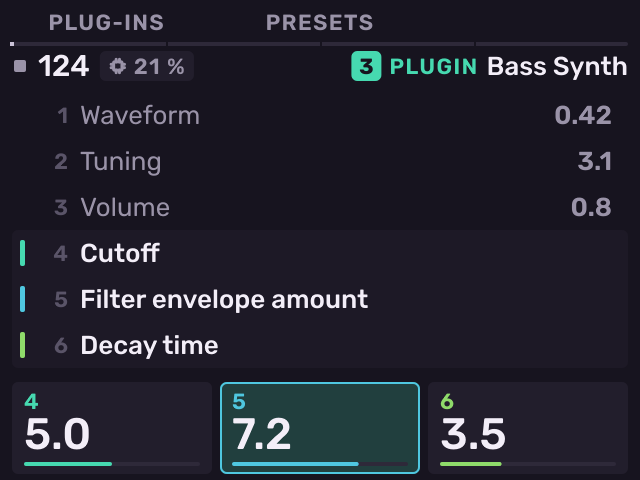
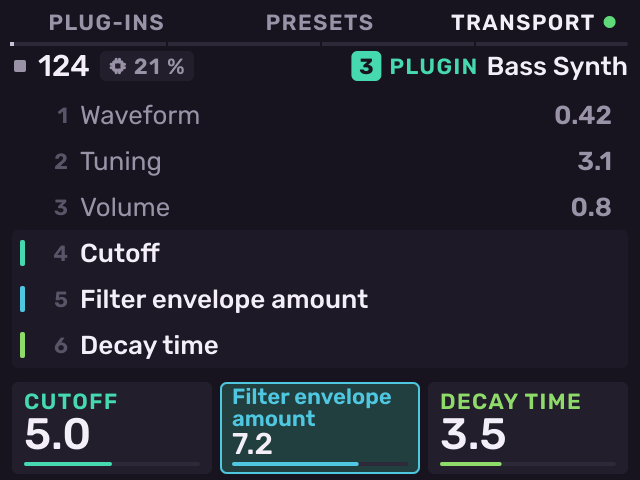
feat(melodee): TRANSPORT on a plug-in (B3 on a PLUGIN track's Edit, a card on a plug-in effect's sheet) keeps Play and Stop from it, so its own sequencer stays still

diff --git a/src/melodee/pages/chain_page.cpp b/src/melodee/pages/chain_page.cpp
@@ -24,14 +24,18 @@
 namespace melodee {
 namespace {
 using namespace ui;
-// A device's sheet: Presets only on a plug-in that has some (its programs, PRESETS).
-enum class Action : uint8_t { Change, Presets, Bypass, Left, Right, Remove };
-using Actions = std::array<Action, 6>;
+// A device's sheet: Presets only on a plug-in that has some (its programs, PRESETS); Transport on a plug-in, after
+// Bypass (whether it hears Play and Stop).
+enum class Action : uint8_t { Change, Presets, Bypass, Transport, Left, Right, Remove };
+using Actions = std::array<Action, 7>;
 unsigned device_actions(const UiState& ui, const EffectSlot& slot, Actions& out) {
     unsigned n = 0;
+    bool plugin = slot.kind == plugin_effect_kind;
     out[n++] = Action::Change;
-    if (slot.kind == plugin_effect_kind && ui.plugin_panel.entry == unsigned(slot.params[0]) && ui.plugin_panel.programs > 0) out[n++] = Action::Presets;
-    for (Action a : {Action::Bypass, Action::Left, Action::Right, Action::Remove}) out[n++] = a;
+    if (plugin && ui.plugin_panel.entry == unsigned(slot.params[0]) && ui.plugin_panel.programs > 0) out[n++] = Action::Presets;
+    out[n++] = Action::Bypass;
+    if (plugin) out[n++] = Action::Transport;
+    for (Action a : {Action::Left, Action::Right, Action::Remove}) out[n++] = a;
     return n;
 }
 
@@ -158,6 +162,11 @@ void draw(Paint& p, const Snapshot& s) {
             case Action::Change: m.items[r] = card_item(Icon::Swap, "CHANGE", ""); break;
             case Action::Presets: m.items[r] = card_item(Icon::Star, "PRESETS", juce::String(int(s.ui.plugin_panel.programs))); break;
             case Action::Bypass: m.items[r] = card_item(Icon::Power, "BYPASS", slot.bypass ? "ON" : "OFF", bool(slot.bypass)); break;
+            case Action::Transport: {
+                bool on = unsigned(slot.params[0]) < max_plugins && s.project.plugins[unsigned(slot.params[0])].transport;
+                m.items[r] = card_item(Icon::Play, "TRANSPORT", on ? "ON" : "OFF", on);
+                break;
+            }
             case Action::Left: m.items[r] = card_item(Icon::ArrowLeft, "MOVE LEFT", "", false, false, cursor == 0); break;
             case Action::Right: m.items[r] = card_item(Icon::ArrowRight, "MOVE RIGHT", "", false, false, cursor + 1 >= count); break;
             case Action::Remove: m.items[r] = card_item(Icon::Trash, "REMOVE", "", false, true); break;
@@ -230,6 +239,7 @@ void push(Context& c) {
         case Action::Change: ui.picker_open = true; ui.picker_items = false; ui.picker_replaces = true; break;
         case Action::Presets: ui.sheet_open = false; c.open_plugin_presets(unsigned(chain.slots[cursor].params[0])); return;
         case Action::Bypass: c.toggle_bypass(n, cursor); return; // stays open to see it change
+        case Action::Transport: c.toggle_plugin_transport(unsigned(chain.slots[cursor].params[0])); return; // and this
         case Action::Left: c.move_effect(n, cursor, -1); if (cursor) ui.fx_cursor[at] = uint8_t(cursor - 1); break;
         case Action::Right: c.move_effect(n, cursor, 1); if (cursor + 1 < chain.count()) ui.fx_cursor[at] = uint8_t(cursor + 1); break;
         case Action::Remove: c.set_effect(n, cursor, EffectKind::None); break;

diff --git a/src/melodee/plugin/plugin_rack.cpp b/src/melodee/plugin/plugin_rack.cpp
@@ -327,6 +327,7 @@ public:
     std::vector<int> shown;              // parameter indices the pages show, in order
     bool qlinks = false;
     bool nam = false;                    // Neural Amp Modeler: shorter card names (plugin/nam.h)
+    std::atomic<bool> transport {true};  // TRANSPORT: it hears Play and Stop (off: always stopped), set by the rack
     std::atomic<float> load {0};         // share of a block's time
     std::string stage;                   // the RAM copy it runs from, removed with it
     PluginFormat format = PluginFormat::Vst3;
@@ -341,6 +342,7 @@ private:
     void follow_clock(unsigned frames) {
         if (warming) { now = EffectClock {}; quarters = 0; per_frame = 0; return; }
         now = *effect_clock_now;
+        if (!transport.load(std::memory_order_relaxed)) now.playing = false; // TRANSPORT off: the place, never Play
         if (now.block != block_seen) { block_seen = now.block; into_block = 0; }
         double quarter = std::max(now.quarter, 1.0);
         quarters = now.playing ? now.song + into_block / quarter : now.song;
@@ -435,6 +437,8 @@ void PluginRack::sync(const Project& project, uint32_t asleep) {
         std::lock_guard<std::mutex> held(lock);
         for (unsigned e = 0; e < max_plugins; ++e) {
             auto& entry = entries[e];
+            entry.transport = project.plugins[e].transport;
+            if (entry.live) entry.live->transport.store(entry.transport, std::memory_order_relaxed);
             std::string want = project.plugins[e].used() && referenced(project, e) ? project.plugins[e].path : "";
             int32_t id = want.empty() ? 0 : project.plugins[e].id;
             // Freeze plan F2d: used only by deep-frozen tracks, it sleeps (plugin/plugin_sleep.h).
@@ -1039,6 +1043,7 @@ void PluginRack::load(const Job& job) {
         else {
             handles.push_back(std::move(handle));
             if (entry.live) retiring.push_back(entry.live);
+            raw->transport.store(entry.transport, std::memory_order_relaxed); // before the audio thread first runs it
             entry.live = raw;
             entry.status = PluginStatus::Ready;
             entry.file.instrument = is_instrument ? 1 : 0;

diff --git a/src/melodee/pages/edit_page.cpp b/src/melodee/pages/edit_page.cpp
@@ -153,14 +153,17 @@ void draw(Paint& p, const Snapshot& s) {
     const auto& info = engine_info(s.track().engine);
     auto c = colour_of(s);
     Header h = header_of(s);
-    if (s.track().engine == EngineKind::Plugin) { // the plug-in's own parameters, three at a time; B1 another from the card, B2 its presets
+    if (s.track().engine == EngineKind::Plugin) { // the plug-in's own parameters, three at a time; B1 another from the card, B2 its presets,
+                                                  // B3 TRANSPORT (it hears Play and Stop: its LED)
         const auto& panel = s.ui.plugin_panel;
         bool ours = panel.entry == s.track().plugin;
         if (ours && panel.status == PluginStatus::Ready) // the share of each audio block it takes
             h.left.push_back(pill(Icon::Chip, juce::String(panel.load / 10) + " %", panel.load > 700 ? colour::amber : colour::mid));
         h.right.push_back(tag_of(s, s.ui.track));
-        bool presets = ours && panel.programs > 0;
-        frame(p, s, {{"PLUG-INS", presets ? "PRESETS" : "", ""}, -1, c}, h);
+        bool presets = ours && panel.programs > 0, chosen = s.track().plugin < max_plugins;
+        SoftKeys keys {{"PLUG-INS", presets ? "PRESETS" : "", chosen ? "TRANSPORT" : ""}, -1, c};
+        if (chosen) { keys.toggles = 4; keys.lit = s.project.plugins[s.track().plugin].transport ? 4 : 0; }
+        frame(p, s, keys, h);
         if (s.track().plugin >= max_plugins) { // none yet: B1 picks one from the card
             icon(p, Icon::Plug, zone::width / 2.0f - 14, zone::picture_y + 40, 28, colour::dim, 1.4f);
             p.text("NONE", 0, zone::picture_y + 76, zone::width, 14, caps_text(colour::dim), juce::Justification::centred);
@@ -210,6 +213,7 @@ void soft(Context& c, int key) {
     if (c.track().engine == EngineKind::Plugin) {
         if (key == 0) c.open_plugin_picker(UiState::PluginTarget::Instrument);
         if (key == 1 && c.ui.plugin_panel.entry == c.track().plugin && c.ui.plugin_panel.programs > 0) c.open_plugin_presets(c.track().plugin);
+        if (key == 2) c.toggle_plugin_transport(c.track().plugin);
         return;
     }
     unsigned count = page_count(c), t = c.ui.track;

diff --git a/tests/melodee.cpp b/tests/melodee.cpp
@@ -8974,7 +8974,7 @@ void synths_as_plugins() {
 
 void plugins() {
     // The file: PLGT makes the track a PLUGIN track (TRAK says None, as older builds should see it), PLUG keeps
-    // each entry's path and state.
+    // each entry's path and state, and TRANSPORT (on unless turned off; a file from before it: on).
     {
         auto project = std::make_unique<Project>();
         auto bank = std::make_unique<PatternBank>();
@@ -8987,6 +8987,7 @@ void plugins() {
         std::snprintf(project->plugins[7].name, sizeof(project->plugins[7].name), "Compressor x2 Stereo");
         project->buses[0].fx.slots[0] = {plugin_effect_kind, false, {7, 0, 0, 0, 0, 0}};
         project->master.slots[0] = {plugin_effect_kind, false, {9, 0, 0, 0, 0, 0}};
+        project->plugins[9].transport = false; // a plug-in with its own sequencer, played only by its notes
         std::array<std::vector<uint8_t>, max_plugins> states;
         states[5] = {1, 2, 3, 250};
         auto data = save_project(*project, *bank, &states);
@@ -9001,6 +9002,7 @@ void plugins() {
         CHECK(copy->plugins[7].id == -123456789 && std::string(copy->plugins[7].name) == "Compressor x2 Stereo" && copy->plugins[5].id == 0);
         CHECK(copy->master.slots[0].kind == plugin_effect_kind && copy->master.slots[0].params[0] == 9);
         CHECK(plugin_used_by(*copy, 5) && plugin_used_by(*copy, 9) && !plugin_used_by(*copy, 4));
+        CHECK(!copy->plugins[9].transport && copy->plugins[5].transport && copy->plugins[7].transport);
         copy->tracks[2].engine = EngineKind::Midi; // the entry stays in the table but nothing plays it
         CHECK(!plugin_used_by(*copy, 5));
     }

diff --git a/src/melodee/model/project_file.cpp b/src/melodee/model/project_file.cpp
@@ -646,6 +646,7 @@ std::vector<uint8_t> save_project(const Project& project, const PatternBank& pat
         w.u32(uint32_t(state.size()));
         w.out.insert(w.out.end(), state.begin(), state.end());
         w.u32(uint32_t(ref.id)); w.text(ref.name); // after the state: which plug-in of a bundle, and its name
+        w.u8(ref.transport ? 1 : 0);              // and TRANSPORT (without it: on)
         w.end(at);
     }
     for (unsigned t = 0; t < track_count; ++t) { // a track's own MIDI channel (parity phase 9)
@@ -1150,6 +1151,7 @@ std::string load_project(const std::vector<uint8_t>& data, Project& target, Patt
             std::memcpy(project->plugins[e].path, path, sizeof(path));
             plugin_states[e] = std::move(state);
             if (!r.done()) { project->plugins[e].id = int32_t(r.u32()); r.text(project->plugins[e].name, sizeof(project->plugins[e].name)); }
+            if (!r.done()) project->plugins[e].transport = r.u8() != 0;
         } else if (name == "MIDC") { // a track's own MIDI channel; without it none
             unsigned t = r.u8(), channel = r.u8();
             if (r.ok && t < track_count) project->tracks[t].midi_channel = uint8_t(channel <= 16 ? channel : 0);

diff --git a/src/melodee/shell/plugin_jobs.cpp b/src/melodee/shell/plugin_jobs.cpp
@@ -170,6 +170,14 @@ void set_presets_folder(UiState& ui, const std::string& folder) {
 } // namespace
 
 // PRESETS opens where the preset picked last is: its folder, its row (plugin/preset_rows.h).
+void Context::toggle_plugin_transport(unsigned entry) {
+    if (entry >= max_plugins || !project.plugins[entry].used()) return;
+    auto& ref = project.plugins[entry];
+    ref.transport = !ref.transport;
+    dirty = true;
+    if (plugins) plugins->sync(project, plugins_asleep()); // heard from the next block
+}
+
 void Context::open_plugin_presets(unsigned entry) {
     if (!plugins || entry >= max_plugins) return;
     if (ui.preset_due && ui.presets_entry == entry) { // Stage's turn still to load: now, as the cursor means a row here

diff --git a/src/melodee/shell/context.h b/src/melodee/shell/context.h
@@ -289,6 +289,7 @@ public:
     void choose_plugin(const PluginFile& file);
     void set_plugin_param(int32_t id, int value);
     void open_plugin_presets(unsigned entry); // PRESETS for that plug-in; B1 there comes back here
+    void toggle_plugin_transport(unsigned entry); // TRANSPORT on or off for that plug-in (PluginRef::transport)
     void choose_plugin_program(int index);    // that program, by its place in the plug-in's list (Stage's wheel)
     void push_plugin_preset();                // PRESETS' Push: into the folder under the cursor, or load the preset
     void back_plugin_presets();               // PRESETS' B1: out of the folder in view, else back where it came from

diff --git a/src/melodee/model/project.h b/src/melodee/model/project.h
@@ -347,6 +347,9 @@ struct PluginRef {
     char path[plugin_path_length] {}; // a .vst3 bundle, a VST2 .so, or an Open MPC plug-in folder; empty: free
     int32_t id = 0;                   // which plug-in of a bundle holding several (its JUCE unique id); 0: its first
     char name[40] {};                 // as the picker named it, for the cards while it is not open
+    // TRANSPORT: it hears Play and Stop. Off, it is always told the song is stopped (still the tempo and the place),
+    // so a plug-in with a sequencer of its own plays only the notes it is sent.
+    bool transport = true;
     bool used() const { return path[0] != 0; }
 };
 

diff --git a/src/melodee/plugin/plugin_rack.h b/src/melodee/plugin/plugin_rack.h
@@ -113,6 +113,7 @@ public:
 private:
     struct Entry : PluginPlan {           // its bookkeeping (plugin/plugin_sleep.h), and:
         PluginHandle* live = nullptr;     // offered to the host (owned in `handles`)
+        bool transport = true;            // the project's TRANSPORT for it (PluginRef::transport), for the next one too
         std::string error;
         PluginFile file;
     };

diff --git a/docs/MELODEE.md b/docs/MELODEE.md
@@ -1922,6 +1922,18 @@ it is moved, or from the old folder while it is still there (`card_plugin_path()
   many presets it holds; Push opens one, B1 comes back out on it, and the
   folder holding the one picked has the check. PRESETS opens in the folder
   of the one picked last (`plugin/preset_rows.h`).
+- **Transport.** Every plug-in gets Melodee's transport as a JUCE play
+  head (`PluginHandle` in `plugin/plugin_rack.cpp`): playing once any
+  count-in is over, the place in quarter notes from the song's top (as
+  Song Position counts it), the tempo and the time signature, from the
+  engine host's clock at the block's start (`EffectClock`). VST3 and LV2
+  read it through JUCE; the VST2 host, the armv7 bridge and the CLAP host
+  pass it on as `VstTimeInfo` and the CLAP transport event
+  (`plugin/host_time.h`). TRANSPORT, B3 on a PLUGIN track's Edit and a card
+  after Bypass on a plug-in effect's sheet, turns Play off for that entry
+  (`PluginRef::transport`, kept in PLUG): it is always told the song is
+  stopped, still with the tempo and the place, so a plug-in with its own
+  sequencer (LXRXXL BAZZLINE) plays only the notes it is sent.
 - **Plugin Data.** Plug-ins keep presets and settings under their home
   folder, and the MPC's is read only: before a plug-in opens, `$HOME` is
   `Melodee/Plugin Data` on the card, laid out as on a Linux computer. Most

diff --git a/docs/guide/plug-ins.md b/docs/guide/plug-ins.md
@@ -83,6 +83,10 @@ To change a track's plug-in, press **SAMPLE SELECT** on the track.
 - Turn the encoder or press **−** / **+** to move to other parameters.
 - The header shows how much of each audio block the plug-in uses.
 - **B1** opens the picker. **B2** (**PRESETS**) opens the plug-in's presets.
+- **B3** (**TRANSPORT**) sets whether the plug-in hears Play and Stop. Its
+  light is on by default. Turn it off for a plug-in with its own sequencer
+  or arpeggiator, so that only the track's notes play it. It still follows
+  the tempo.
 
 **Presets**: turn the encoder to a preset and push to load it. The page
 stays open, so you can play each preset in turn. **B1** goes back.
@@ -116,7 +120,8 @@ loop chains take plug-ins.
 
 ![A plug-in effect on a track chain](../images/screens/rackplugin.png)
 
-To open a plug-in effect's presets, push the encoder on its slot.
+To open a plug-in effect's presets, push the encoder on its slot. The same
+sheet has **TRANSPORT**, as on a plug-in track's Edit page.
 
 ## Neural Amp Modeler
 
